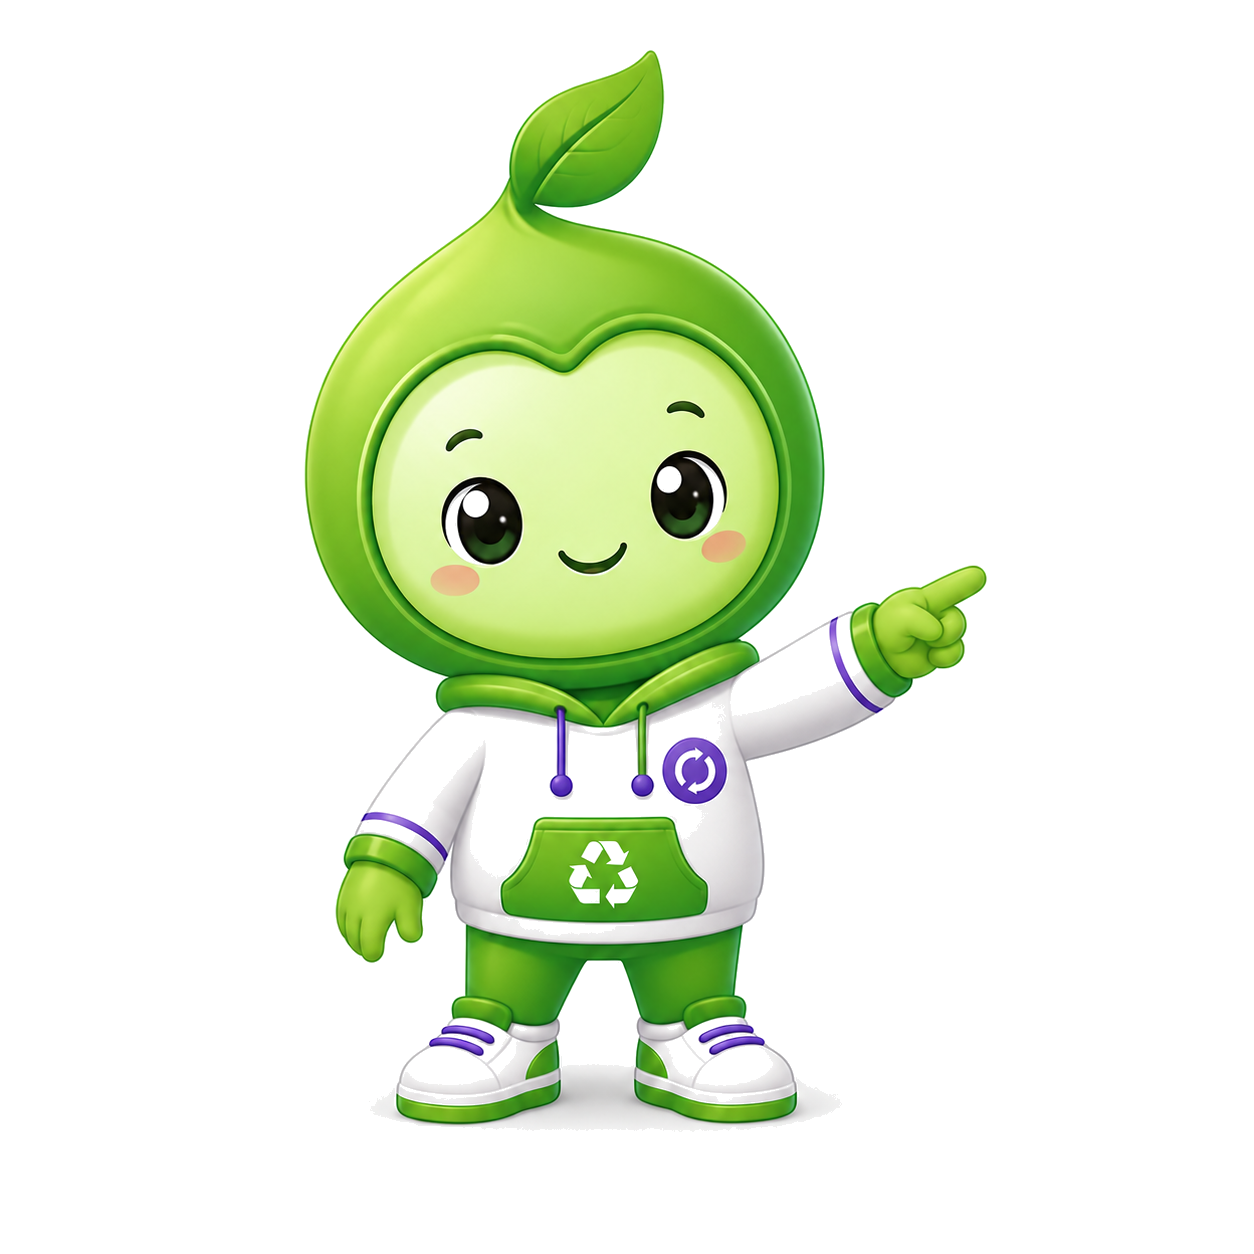
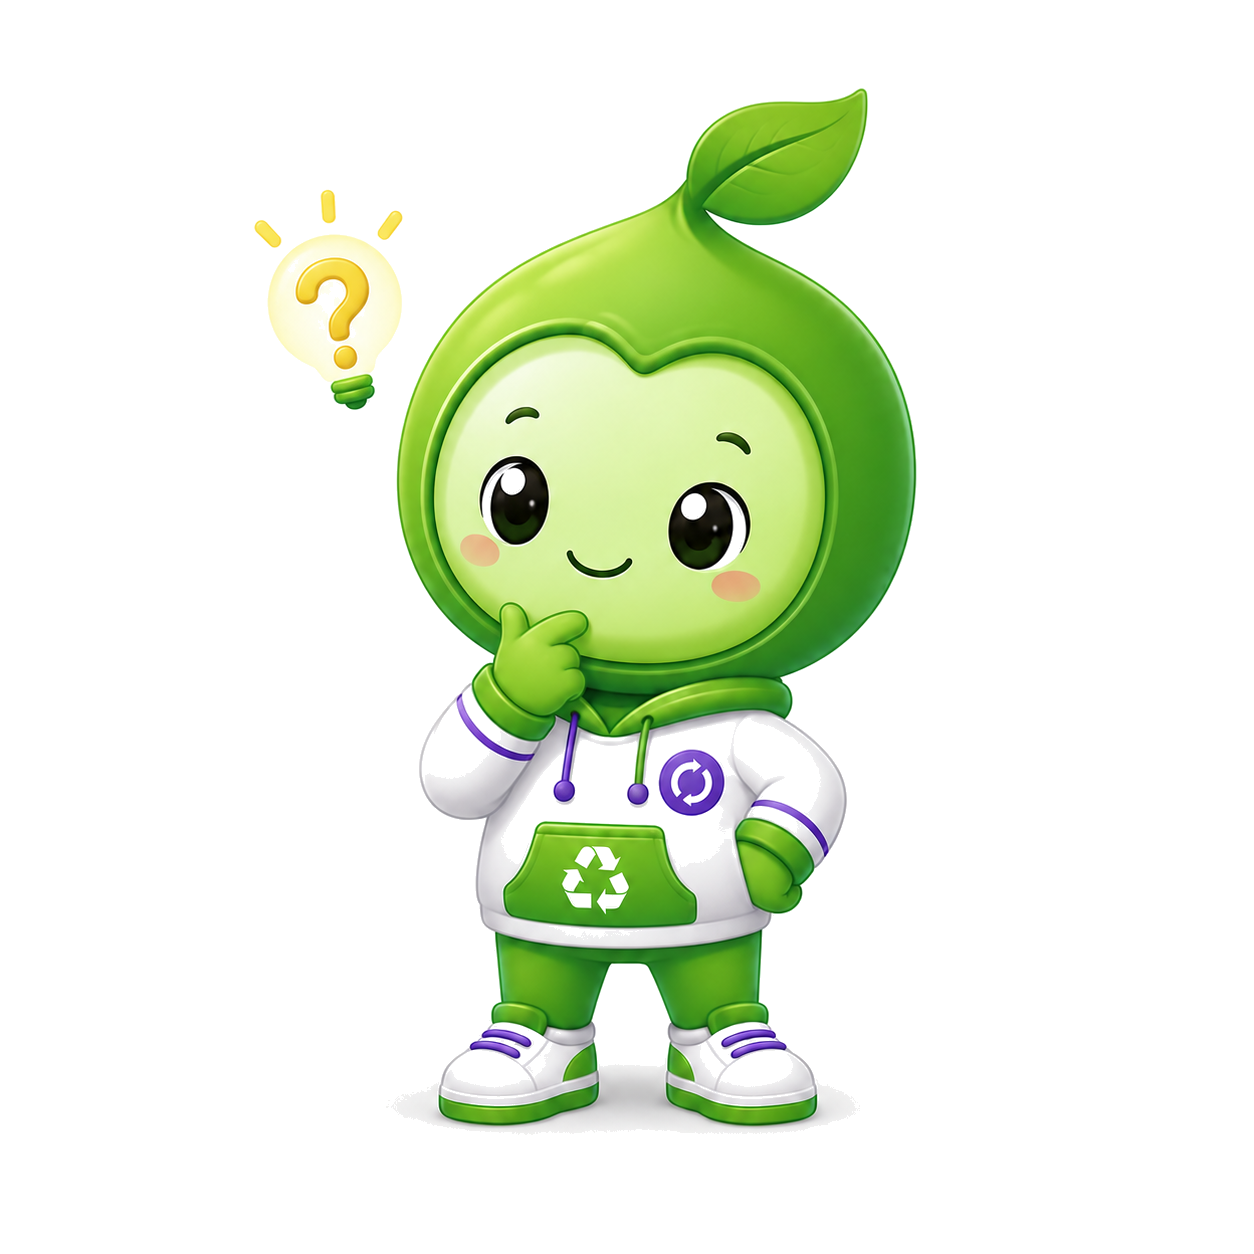
scanner scrollable results, lari tip outside container

Changed region(s): [[0.2177, 0.0311, 0.8086, 0.9019], [0.311, 0.5909, 0.3421, 0.622], [0.1866, 0.1555, 0.2177, 0.1866]]

diff --git a/apps/mobile/screens/ScannerScreen.tsx b/apps/mobile/screens/ScannerScreen.tsx
@@ -569,7 +569,7 @@ export default function ScannerScreen({ navigation }: any) {
 
           <View style={s.tipRow}>
             <Image
-              source={require("../assets/lari-hello.png")}
+              source={require("../assets/Lari2.png")}
               style={s.tipLari}
               resizeMode="contain"
             />
